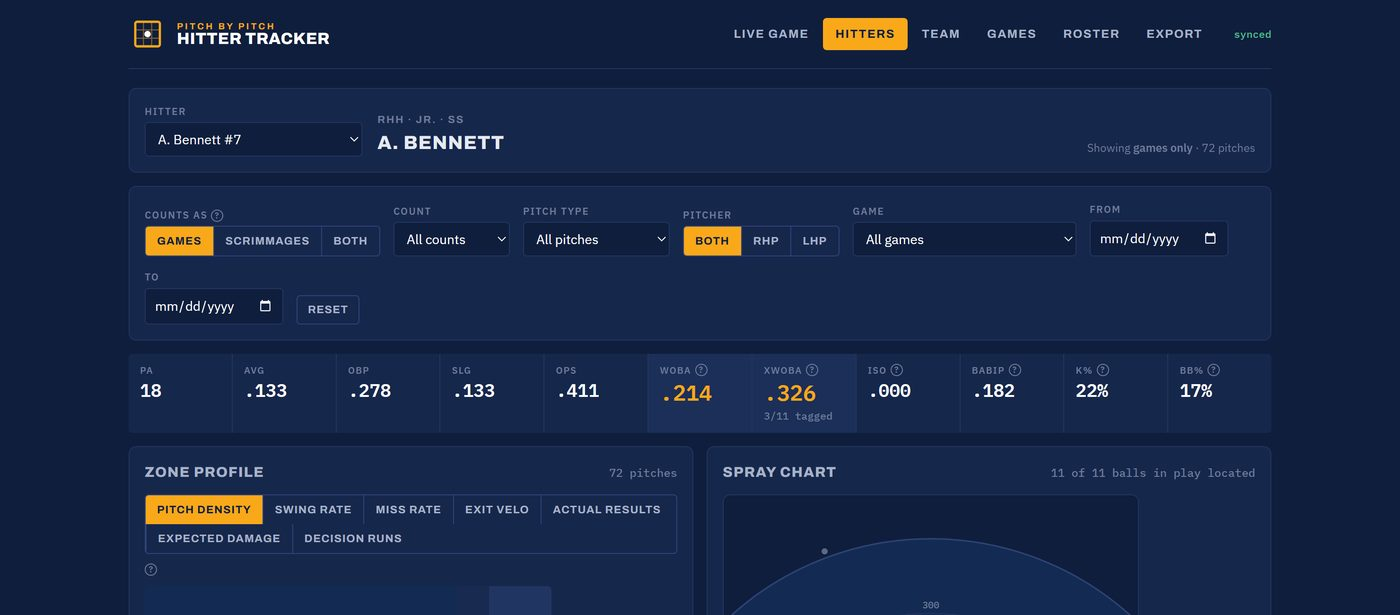
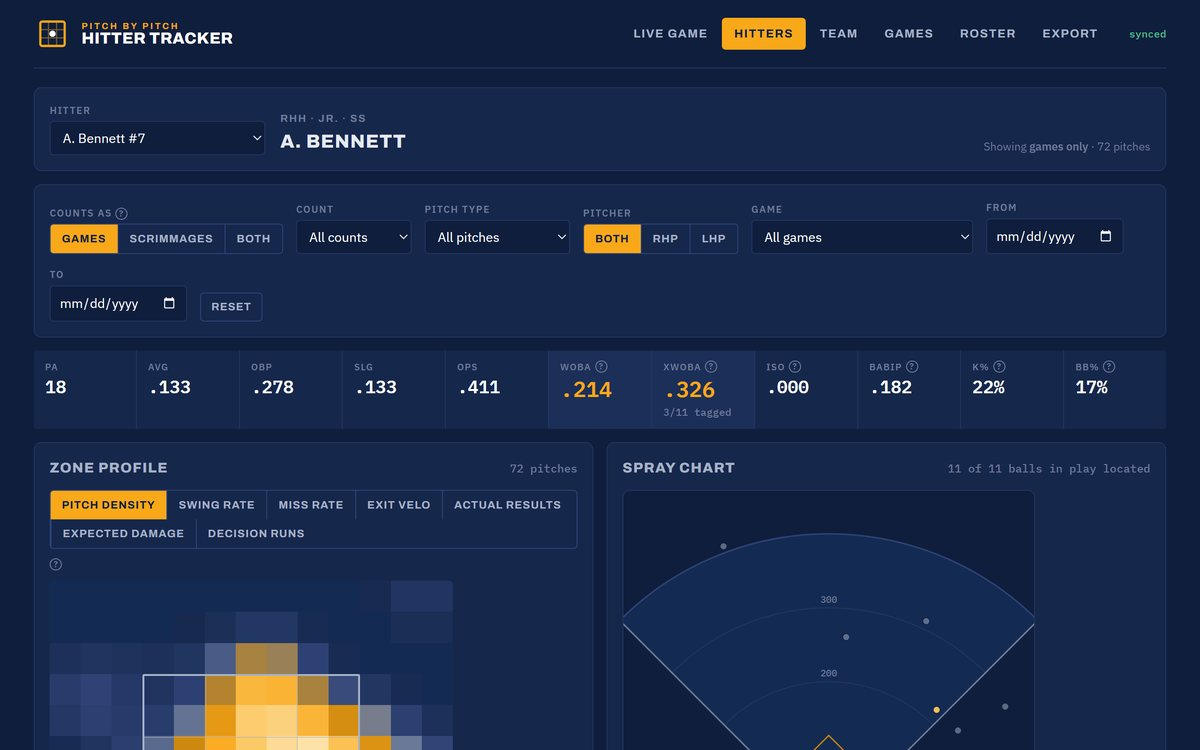
Redesign: uniform project cards with screenshots, rename to Hitting Tracker
Claude-Session: https://claude.ai/code/session_013hvVkYMWoYT2gdnVv2Aj6i

diff --git a/index.html b/index.html
@@ -3,235 +3,170 @@
 <head>
 <meta charset="utf-8">
 <meta name="viewport" content="width=device-width, initial-scale=1">
-<meta name="description" content="Quentin Evers: hitting tools, player development reports and swing-plane research.">
-<title>Quentin Evers Projects</title>
+<title>Quentin Evers - Hitting Tools and Research</title>
+<meta name="description" content="Quentin Evers: software for hitting coaches and hitters. Game-day tracking, bat path education, development reports and swing-plane research.">
+<link rel="preconnect" href="https://fonts.googleapis.com">
 <link rel="preconnect" href="https://fonts.gstatic.com" crossorigin>
 <link rel="stylesheet" href="https://fonts.googleapis.com/css2?family=Big+Shoulders+Display:wght@700;800&family=Public+Sans:wght@400;500;600&family=IBM+Plex+Mono:wght@400;500&display=swap">
 <style>
-/* Layout: a single column, like a lineup card. Three featured tools get image + notes rows; four smaller ones sit in a 2-up grid below. */
+/* Layout: hero (name + portrait), then six projects in a uniform two-column grid. Every card: 16:10 screenshot, label row, title, two sentences, terms, links. */
 :root{
-  --ground:#F1F2EE; --panel:#FFFFFF; --ink:#14212C; --muted:#5A6670;
-  --line:#D3D8D3; --accent:#A9481F; --chip:#E4E7E1;
+  --ground:#F2F3EF; --panel:#FFFFFF; --ink:#14212C; --muted:#5C6872;
+  --line:#D9DDD7; --accent:#A9481F; --chip:#E7EAE4; --live:#2F7A4B;
   --display:"Big Shoulders Display",Impact,"Arial Narrow",sans-serif;
   --body:"Public Sans",-apple-system,"Segoe UI",sans-serif;
   --mono:"IBM Plex Mono",ui-monospace,Consolas,monospace;
 }
 @media (prefers-color-scheme: dark){
-  :root:not([data-theme="light"]){
-    --ground:#0E141A; --panel:#151D25; --ink:#E7EBEC; --muted:#97A3AB;
-    --line:#26323C; --accent:#E2774B; --chip:#1D2731; color-scheme:dark;
+  :root{
+    --ground:#0E141A; --panel:#151D25; --ink:#E7EBEC; --muted:#98A4AC;
+    --line:#26323C; --accent:#E2774B; --chip:#1D2731; --live:#5BBE84; color-scheme:dark;
   }
 }
-:root[data-theme="dark"]{
-  --ground:#0E141A; --panel:#151D25; --ink:#E7EBEC; --muted:#97A3AB;
-  --line:#26323C; --accent:#E2774B; --chip:#1D2731; color-scheme:dark;
-}
 *{box-sizing:border-box}
-body{margin:0;background:var(--ground);color:var(--ink);font-family:var(--body);font-size:16px;line-height:1.55;
-  padding-inline:20px;padding-block:48px 72px}
-.wrap{max-width:1080px;margin:0 auto;display:flex;flex-direction:column;gap:72px}
+html{-webkit-text-size-adjust:100%}
+body{margin:0;background:var(--ground);color:var(--ink);font-family:var(--body);font-size:16px;line-height:1.6;
+  -webkit-font-smoothing:antialiased;padding-inline:24px}
 a{color:inherit}
 a:focus-visible{outline:2px solid var(--accent);outline-offset:3px}
+.wrap{max-width:1120px;margin:0 auto}
 
-header{display:grid;grid-template-columns:minmax(0,1fr) minmax(220px,340px);gap:40px;align-items:end;border-bottom:2px solid var(--ink);padding-bottom:28px}
-.hero-text{display:grid;gap:18px;min-width:0}
-.portrait{margin:0;border:1px solid var(--line);background:var(--panel);aspect-ratio:4/5;max-width:100%;overflow:hidden}
+/* Hero */
+.hero{display:grid;grid-template-columns:minmax(0,1fr) 300px;gap:56px;align-items:end;padding-block:72px 48px;border-bottom:2px solid var(--ink)}
+.hero-text{display:flex;flex-direction:column;gap:22px;min-width:0}
+.kicker{font-family:var(--mono);font-size:12.5px;letter-spacing:.14em;text-transform:uppercase;color:var(--accent);margin:0}
+h1{font-family:var(--display);font-weight:800;text-transform:uppercase;font-size:clamp(64px,11vw,136px);line-height:.84;letter-spacing:.005em;margin:0}
+.lede{margin:0;max-width:34em;font-size:clamp(17px,1.6vw,19px);line-height:1.55}
+.social{display:flex;flex-wrap:wrap;gap:10px;margin-top:4px}
+.social a{font-size:14px;font-weight:600;text-decoration:none;border:1.5px solid var(--ink);padding:8px 16px;border-radius:999px;transition:background .15s,color .15s}
+.social a:hover{background:var(--ink);color:var(--ground)}
+.portrait{margin:0;aspect-ratio:4/5;max-width:100%;overflow:hidden;background:var(--panel)}
 .portrait img{display:block;width:100%;height:100%;object-fit:cover}
-.kicker{font-family:var(--mono);font-size:12px;letter-spacing:.14em;text-transform:uppercase;color:var(--accent)}
-h1{font-family:var(--display);font-weight:800;text-transform:uppercase;font-size:clamp(56px,11vw,128px);
-  line-height:.86;letter-spacing:.005em;margin:0;text-wrap:balance}
-.intro{max-width:60ch;margin:0;font-size:18px;color:var(--muted)}
-.count{display:flex;gap:28px;flex-wrap:wrap;font-family:var(--mono);font-size:13px;color:var(--muted)}
-.social{display:flex;gap:10px 22px;flex-wrap:wrap;font-size:14px;font-weight:600}
-.social a{text-decoration:none;border-bottom:2px solid var(--accent);padding-bottom:1px}
-.social a:hover{color:var(--accent)}
-footer nav{display:flex;gap:18px;flex-wrap:wrap}
-.count b{color:var(--ink);font-weight:500;font-variant-numeric:tabular-nums}
 
-h2.sec{font-family:var(--mono);font-weight:500;font-size:12px;letter-spacing:.14em;text-transform:uppercase;
-  color:var(--muted);margin:0 0 28px;display:flex;align-items:center;gap:14px}
-h2.sec::after{content:"";flex:1;height:1px;background:var(--line)}
-
-.feature{display:grid;grid-template-columns:minmax(0,1.25fr) minmax(0,1fr);gap:40px;align-items:start;
-  padding-block:36px;border-top:1px solid var(--line)}
-.feature:first-of-type{border-top:0;padding-top:0}
-.feature:nth-of-type(even) .shot{order:2}
-.shot{margin:0;border:1px solid var(--line);background:var(--panel);overflow:hidden;border-radius:2px}
-.shot img{display:block;width:100%;height:auto}
-.shot.tall{max-height:520px}
-.shot figcaption{font-family:var(--mono);font-size:11.5px;color:var(--muted);padding:9px 12px;border-top:1px solid var(--line)}
-.body{display:flex;flex-direction:column;gap:16px;min-width:0}
-.tag{font-family:var(--mono);font-size:12px;letter-spacing:.1em;text-transform:uppercase;color:var(--accent)}
-h3{font-family:var(--display);font-weight:700;text-transform:uppercase;font-size:clamp(34px,4.6vw,48px);
-  line-height:.95;margin:0;letter-spacing:.01em;text-wrap:balance}
-.body p{margin:0;max-width:56ch}
-ul.points{margin:0;padding:0;list-style:none;display:grid;gap:8px}
-ul.points li{padding-left:18px;position:relative;font-size:15px}
-ul.points li::before{content:"";position:absolute;left:0;top:.68em;width:8px;height:2px;background:var(--accent)}
-.chips{display:flex;flex-wrap:wrap;gap:6px}
-.chips span{font-family:var(--mono);font-size:12px;background:var(--chip);padding:3px 8px;border-radius:2px}
-.links{display:flex;flex-wrap:wrap;gap:10px 22px;align-items:center;font-size:14px;font-weight:600}
+/* Work */
+.work{padding-block:56px 24px}
+.work-head{display:flex;justify-content:space-between;align-items:baseline;gap:16px;flex-wrap:wrap;margin-bottom:32px}
+h2{font-family:var(--display);font-weight:800;text-transform:uppercase;font-size:clamp(36px,4.5vw,52px);line-height:1;margin:0}
+.work-head p{margin:0;color:var(--muted);font-size:15px}
+.grid{display:grid;grid-template-columns:repeat(2,minmax(0,1fr));gap:48px 40px}
+.project{display:flex;flex-direction:column;gap:16px;min-width:0}
+.shot{display:block;aspect-ratio:16/10;max-width:100%;overflow:hidden;border:1px solid var(--line);background:var(--panel);border-radius:4px}
+.shot img{display:block;width:100%;height:100%;object-fit:cover;object-position:top;transition:transform .35s ease}
+a.shot:hover img{transform:scale(1.025)}
+.meta{display:flex;justify-content:space-between;align-items:center;gap:12px;font-family:var(--mono);font-size:12px;letter-spacing:.08em;text-transform:uppercase;margin-top:4px}
+.meta .cat{color:var(--accent)}
+.status{color:var(--muted);display:inline-flex;align-items:center;gap:7px;white-space:nowrap}
+.status.live::before{content:"";width:7px;height:7px;border-radius:50%;background:var(--live)}
+h3{font-family:var(--display);font-weight:700;text-transform:uppercase;font-size:clamp(30px,3.2vw,38px);line-height:.95;margin:0;letter-spacing:.01em}
+.project p{margin:0;max-width:36em;color:var(--ink)}
+.terms{display:flex;flex-wrap:wrap;gap:6px;list-style:none;margin:0;padding:0}
+.terms li{font-family:var(--mono);font-size:12px;background:var(--chip);padding:3px 9px;border-radius:3px;color:var(--muted)}
+.links{display:flex;gap:22px;font-size:14px;font-weight:600;margin-top:auto;padding-top:4px}
 .links a{text-decoration:none;border-bottom:2px solid var(--accent);padding-bottom:1px}
 .links a:hover{color:var(--accent)}
-.status{font-family:var(--mono);font-size:12px;font-weight:400;color:var(--muted)}
+.links .note{font-weight:400;color:var(--muted);font-size:14px}
 
-.grid{display:grid;grid-template-columns:repeat(2,minmax(0,1fr));gap:20px}
-.card{background:var(--panel);border:1px solid var(--line);padding:26px;display:flex;flex-direction:column;gap:14px;min-width:0}
-.card h3{font-size:32px}
-.card p{margin:0;font-size:15px}
-.card .links{margin-top:auto;padding-top:6px}
-.glyph{height:64px;color:var(--ink)}
-.glyph svg{height:100%;width:auto;display:block}
+footer{margin-top:72px;border-top:2px solid var(--ink);padding-block:20px 48px;display:flex;justify-content:space-between;flex-wrap:wrap;gap:12px;font-family:var(--mono);font-size:12.5px;color:var(--muted)}
+footer nav{display:flex;gap:20px}
+footer a{text-decoration:none}
+footer a:hover{color:var(--accent)}
 
-footer{border-top:2px solid var(--ink);padding-top:18px;font-family:var(--mono);font-size:12px;color:var(--muted);
-  display:flex;justify-content:space-between;flex-wrap:wrap;gap:10px}
-
-@media (max-width:760px){
-  .feature{grid-template-columns:1fr;gap:22px}
-  .feature:nth-of-type(even) .shot{order:0}
-  .grid{grid-template-columns:1fr}
-  header{grid-template-columns:1fr;gap:24px}
-  .portrait{max-width:300px;order:-1}
-  body{padding-inline:16px}
+@media (max-width:860px){
+  .hero{grid-template-columns:1fr;gap:32px;padding-top:40px}
+  .portrait{max-width:280px;order:-1}
+  .grid{grid-template-columns:1fr;gap:56px}
 }
+@media (max-width:480px){ body{padding-inline:16px} }
+@media (prefers-reduced-motion:reduce){ *{transition:none!important} }
 </style>
 </head>
 <body>
-
 <div class="wrap">
-  <header>
+
+  <header class="hero">
     <div class="hero-text">
-    <div class="kicker">Hitting tools, reports and research</div>
-    <h1>Quentin<br>Evers</h1>
-    <p class="intro">Software I have built for hitting coaches and hitters: game-day tracking, teaching tools that turn Statcast bat tracking into something a coach can use, development reports, and research on how swing plane meets pitch plane.</p>
-    <div class="count"><span><b>6</b> projects</span><span><b>4</b> live on the web</span><span><b>2025</b> Statcast season</span></div>
-    <div class="social"><a href="https://www.linkedin.com/in/quentin-evers-943628442/" target="_blank" rel="noopener">LinkedIn</a><a href="https://x.com/QuentinEvers" target="_blank" rel="noopener">X / Twitter</a><a href="https://github.com/qevers23" target="_blank" rel="noopener">GitHub</a></div>
+      <p class="kicker">Hitting tools, reports and research</p>
+      <h1>Quentin<br>Evers</h1>
+      <p class="lede">I build software for hitting coaches and hitters: game-day tracking, teaching tools that make Statcast bat tracking usable for coaches, development reports, and research on how swing plane meets pitch plane.</p>
+      <nav class="social" aria-label="Profiles">
+        <a href="https://www.linkedin.com/in/quentin-evers-943628442/" target="_blank" rel="noopener">LinkedIn</a>
+        <a href="https://x.com/QuentinEvers" target="_blank" rel="noopener">X / Twitter</a>
+        <a href="https://github.com/qevers23" target="_blank" rel="noopener">GitHub</a>
+      </nav>
     </div>
     <figure class="portrait"><img src="portrait.jpg" alt="Quentin Evers on the field in a navy team jacket and batting helmet" width="720" height="900"></figure>
   </header>
 
-  <section>
-    <h2 class="sec">Featured</h2>
+  <main class="work">
+    <div class="work-head">
+      <h2>Projects</h2>
+      <p>Click any screenshot to open the live tool.</p>
+    </div>
 
-    <article class="feature">
-      <figure class="shot">
-        <img src="tracker.jpg" alt="Hitter Tracker hitter page with slash line, wOBA, xwOBA, zone profile heat map and spray chart" width="1400" height="615">
-        <figcaption>Hitter page: filters, slash line, zone profile, spray chart. Sample data.</figcaption>
-      </figure>
-      <div class="body">
-        <div class="tag">Game day / college program</div>
-        <h3>Mount Marty Hitter Tracker</h3>
-        <p>Pitch-by-pitch tracking and swing-decision reports for Mount Marty hitters. A coach charts the game live, and every hitter page, team page and export updates from the same shared data.</p>
-        <ul class="points">
-          <li>Live game charting, hitter, team, games and roster views</li>
-          <li>Zone profile by pitch density, swing rate, miss rate, exit velo, expected damage and decision runs</li>
-          <li>Filter by games or scrimmages, count, pitch type, pitcher hand and date</li>
-          <li>One link for the whole staff, with a free-tier hosted database behind it</li>
-        </ul>
-        <div class="chips"><span>wOBA</span><span>xwOBA</span><span>BABIP</span><span>K% / BB%</span><span>spray chart</span></div>
-        <div class="links"><a href="https://qevers23.github.io/hitter-tracker/" target="_blank" rel="noopener">Open the tracker</a><a href="https://github.com/qevers23/hitter-tracker" target="_blank" rel="noopener">GitHub</a></div>
-      </div>
-    </article>
-
-    <article class="feature">
-      <figure class="shot">
-        <img src="batpath.jpg" alt="Bat Path Explainer section showing a 3D bat path at contact with attack angle and swing tilt sliders" width="1192" height="1130">
-        <figcaption>Steep vs. flat: attack angle and swing tilt with MLB ranges.</figcaption>
-      </figure>
-      <div class="body">
-        <div class="tag">Teaching / coach education</div>
-        <h3>Bat Path Explainer</h3>
-        <p>An interactive 3D explainer for coaches on attack angle, swing tilt, attack direction, bat speed and getting on plane. Each concept pairs a swing you can orbit and scrub with where MLB hitters actually live.</p>
-        <ul class="points">
-          <li>Five camera views (3/4, side, catcher, top, low) and a play-through to contact</li>
-          <li>Sliders for attack angle, swing tilt, swing length and pitch height</li>
-          <li>MLB 10th, median and 90th percentile for every metric, from 2025 pitch-level Statcast bat tracking</li>
-          <li>"Where coaches get this wrong" notes tied to common cues</li>
-        </ul>
-        <div class="chips"><span>attack angle</span><span>swing tilt</span><span>attack direction</span><span>intercept point</span></div>
-        <div class="links"><a href="https://qevers23.github.io/Bat-Path-Explainer/" target="_blank" rel="noopener">Open the explainer</a><a href="https://github.com/qevers23/Bat-Path-Explainer" target="_blank" rel="noopener">GitHub</a></div>
-      </div>
-    </article>
-
-    <article class="feature">
-      <figure class="shot tall">
-        <img src="devreport.jpg" alt="Hitter Dev Report showing file loader, athlete header and swing profile metrics table" width="1400" height="1400">
-        <figcaption>File loader, athlete header and swing profile. Mock athlete.</figcaption>
-      </figure>
-      <div class="body">
-        <div class="tag">Player development / reports</div>
-        <h3>Hitter Dev Report</h3>
-        <p>One page that turns a hitter's Blast and HitTrax exports into a full development report and prints as a PDF you can hand the athlete. It replaces a three-tool workflow: swing profile in one, batted ball in another, comparison numbers in a third.</p>
-        <ul class="points">
-          <li>Drag in Blast per-swing CSV, HitTrax CSV and Driveline Snapshot or Swing Profile PDFs, in any order</li>
-          <li>Swing profile, batted ball and point-of-contact sections compared against a chosen playing level</li>
-          <li>Drop in a program logo and the report takes on its colors</li>
-          <li>Runs from a single HTML file with nothing to install</li>
-        </ul>
-        <div class="chips"><span>bat speed</span><span>rotational accel.</span><span>on-plane eff.</span><span>exit velo</span><span>contact depth</span></div>
-        <div class="links"><span class="status">Single-file tool, shared directly</span></div>
-      </div>
-    </article>
-  </section>
-
-  <section>
-    <h2 class="sec">Research</h2>
-    <article class="feature" style="padding-top:0;border-top:0">
-      <figure class="shot" aria-hidden="true" style="padding:28px">
-        <svg viewBox="0 0 520 300" width="100%" role="img" aria-label="Diagram of a pitch descending at a VAA and a bat path rising at an attack angle">
-          <line x1="20" y1="250" x2="500" y2="250" stroke="var(--line)" stroke-width="2"/>
-          <path d="M40 60 Q 240 120 420 196" fill="none" stroke="var(--muted)" stroke-width="3" stroke-dasharray="7 6"/>
-          <circle cx="420" cy="196" r="9" fill="var(--panel)" stroke="var(--ink)" stroke-width="2.5"/>
-          <line x1="230" y1="236" x2="470" y2="176" stroke="var(--accent)" stroke-width="7" stroke-linecap="round"/>
-          <text x="40" y="44" fill="var(--muted)" font-family="IBM Plex Mono, monospace" font-size="15">pitch: VAA -5.0&#176;</text>
-          <text x="230" y="278" fill="var(--accent)" font-family="IBM Plex Mono, monospace" font-size="15">bat: attack angle +14&#176;</text>
-          <text x="20" y="300" fill="var(--muted)" font-family="IBM Plex Mono, monospace" font-size="13">illustration, not to scale</text>
-        </svg>
-      </figure>
-      <div class="body">
-        <div class="tag">Research / MLB 2025</div>
-        <h3>VAA Matcher</h3>
-        <p>Every 2025 MLB hitter's attack angle against the vertical approach angle of the pitches he faces. Plane mismatch is a mechanical explanation for why some hitters struggle with some pitch types.</p>
-        <ul class="points">
-          <li>Five views: 3D success ridge, VAA x attack angle scatter, violins by pitch type, gap-to-outcome curves and a zone map</li>
-          <li><b>Plane Match Score</b>, a 0-100 score for how closely a hitter's attack angle tracks the league's xwOBA-optimal angle for each pitch's VAA and height</li>
-          <li>Each hitter compared against hitters in the same bat-speed group</li>
-        </ul>
-        <div class="chips"><span>VAA</span><span>HAA</span><span>attack angle</span><span>xwOBA</span><span>barrel%</span><span>whiff%</span></div>
-        <div class="links"><span class="status">Portable HTML build, not hosted yet</span></div>
-      </div>
-    </article>
-  </section>
-
-  <section>
-    <h2 class="sec">Practice planning</h2>
     <div class="grid">
-      <article class="card">
-        <div class="glyph" aria-hidden="true">
-          <svg viewBox="0 0 140 64"><g fill="none" stroke="currentColor" stroke-width="2">
-            <rect x="1" y="1" width="138" height="62"/><line x1="1" y1="17" x2="139" y2="17"/><line x1="1" y1="32" x2="139" y2="32"/><line x1="1" y1="47" x2="139" y2="47"/><line x1="44" y1="1" x2="44" y2="63"/></g>
-            <rect x="46" y="19" width="56" height="11" fill="var(--accent)"/></svg>
-        </div>
-        <div class="tag">Pre-game</div>
+
+      <article class="project">
+        <a class="shot" href="https://qevers23.github.io/hitter-tracker/" target="_blank" rel="noopener"><img src="tracker.jpg" alt="Hitting Tracker hitter page with slash line, wOBA, xwOBA, zone profile and spray chart" width="1200" height="750" loading="lazy"></a>
+        <div class="meta"><span class="cat">Game day</span><span class="status live">Live</span></div>
+        <h3>Hitting Tracker</h3>
+        <p>Pitch-by-pitch tracking and swing-decision reports, built for the Mount Marty staff. A coach charts the game live and every hitter page, team page and export updates from the same shared data.</p>
+        <ul class="terms"><li>zone profile</li><li>decision runs</li><li>xwOBA</li><li>spray chart</li></ul>
+        <div class="links"><a href="https://qevers23.github.io/hitter-tracker/" target="_blank" rel="noopener">Open</a><a href="https://github.com/qevers23/hitter-tracker" target="_blank" rel="noopener">GitHub</a></div>
+      </article>
+
+      <article class="project">
+        <a class="shot" href="https://qevers23.github.io/Bat-Path-Explainer/" target="_blank" rel="noopener"><img src="batpath.jpg" alt="Bat Path Explainer introduction with a tracked swing shown in three dimensions" width="1200" height="750" loading="lazy"></a>
+        <div class="meta"><span class="cat">Coach education</span><span class="status live">Live</span></div>
+        <h3>Bat Path Explainer</h3>
+        <p>An interactive walkthrough of the bat path for coaches: up or down, side to side, swinging fast and adjustability. Built on 330,422 tracked swings from the 2025 MLB regular season, with each swing rebuilt in 3D.</p>
+        <ul class="terms"><li>attack angle</li><li>swing tilt</li><li>attack direction</li><li>bat speed</li></ul>
+        <div class="links"><a href="https://qevers23.github.io/Bat-Path-Explainer/" target="_blank" rel="noopener">Open</a><a href="https://github.com/qevers23/Bat-Path-Explainer" target="_blank" rel="noopener">GitHub</a></div>
+      </article>
+
+      <article class="project">
+        <div class="shot"><img src="devreport.jpg" alt="Hitter Dev Report swing profile comparing an example athlete to college averages" width="1200" height="750" loading="lazy"></div>
+        <div class="meta"><span class="cat">Player development</span><span class="status">Single-file tool</span></div>
+        <h3>Hitter Dev Report</h3>
+        <p>Turns a hitter's Blast and HitTrax exports into one development report, compared against a chosen playing level, that prints as a PDF for the athlete. Drop in a program logo and the report takes on its colors.</p>
+        <ul class="terms"><li>Blast</li><li>HitTrax</li><li>on-plane efficiency</li><li>contact depth</li></ul>
+        <div class="links"><span class="note">Example athlete shown</span></div>
+      </article>
+
+      <article class="project">
+        <div class="shot"><img src="vaa.jpg" alt="VAA Matcher 3D view of attack angle against pitch VAA with a success ridge and per-pitch table" width="1200" height="750" loading="lazy"></div>
+        <div class="meta"><span class="cat">Research</span><span class="status">Not hosted yet</span></div>
+        <h3>VAA Matcher</h3>
+        <p>Every 2025 MLB hitter's attack angle against the vertical approach angle of the pitches he sees. Plane mismatch explains why some hitters struggle with some pitch types, and the Plane Match Score rates it 0 to 100.</p>
+        <ul class="terms"><li>VAA</li><li>attack angle</li><li>plane match score</li><li>xwOBA</li></ul>
+        <div class="links"><span class="note">Interactive build available on request</span></div>
+      </article>
+
+      <article class="project">
+        <a class="shot" href="https://qevers23.github.io/bp-builder/" target="_blank" rel="noopener"><img src="bp.jpg" alt="BP Builder pre-game batting practice template with groups and cage rounds" width="1200" height="750" loading="lazy"></a>
+        <div class="meta"><span class="cat">Practice planning</span><span class="status live">Live</span></div>
         <h3>BP Builder</h3>
-        <p>A blank pre-game batting practice template that a coaching staff fills in for their own groups, rounds and timing.</p>
+        <p>A blank pre-game batting practice template a staff fills in: groups, rotation timing, cage rounds and on-field rounds. Plans save in the browser and print or export to PDF.</p>
+        <ul class="terms"><li>groups</li><li>cage rounds</li><li>rotation timing</li></ul>
         <div class="links"><a href="https://qevers23.github.io/bp-builder/" target="_blank" rel="noopener">Open</a><a href="https://github.com/qevers23/bp-builder" target="_blank" rel="noopener">GitHub</a></div>
       </article>
-      <article class="card">
-        <div class="glyph" aria-hidden="true">
-          <svg viewBox="0 0 140 64"><g fill="none" stroke="currentColor" stroke-width="2">
-            <rect x="1" y="1" width="138" height="62"/><line x1="20.7" y1="1" x2="20.7" y2="63"/><line x1="40.4" y1="1" x2="40.4" y2="63"/><line x1="60.1" y1="1" x2="60.1" y2="63"/><line x1="79.9" y1="1" x2="79.9" y2="63"/><line x1="99.6" y1="1" x2="99.6" y2="63"/><line x1="119.3" y1="1" x2="119.3" y2="63"/><line x1="1" y1="14" x2="139" y2="14"/></g>
-            <rect x="42.4" y="16" width="16" height="22" fill="var(--accent)"/><rect x="81.9" y="16" width="16" height="34" fill="var(--accent)"/></svg>
-        </div>
-        <div class="tag">Weekly plan</div>
+
+      <article class="project">
+        <a class="shot" href="https://qevers23.github.io/weekly-hitting-builder/" target="_blank" rel="noopener"><img src="weekly.jpg" alt="Weekly Hitting Builder template with cage and on-field plans for each day" width="1200" height="750" loading="lazy"></a>
+        <div class="meta"><span class="cat">Practice planning</span><span class="status live">Live</span></div>
         <h3>Weekly Hitting Builder</h3>
-        <p>A blank weekly hitting calendar that a staff fills in themselves, for laying out the week's work around games.</p>
+        <p>A blank weekly hitting calendar. Each day gets a focus and a plan for every cage and the field, with machines, pitch shapes, drills and swing counts.</p>
+        <ul class="terms"><li>weekly plan</li><li>cage work</li><li>drills and swings</li></ul>
         <div class="links"><a href="https://qevers23.github.io/weekly-hitting-builder/" target="_blank" rel="noopener">Open</a><a href="https://github.com/qevers23/weekly-hitting-builder" target="_blank" rel="noopener">GitHub</a></div>
       </article>
-    </div>
-  </section>
 
-  <footer><span>Quentin Evers</span><nav><a href="https://www.linkedin.com/in/quentin-evers-943628442/" target="_blank" rel="noopener">LinkedIn</a><a href="https://x.com/QuentinEvers" target="_blank" rel="noopener">X / Twitter</a><a href="https://github.com/qevers23" target="_blank" rel="noopener">GitHub</a></nav></footer>
+    </div>
+  </main>
+
+  <footer>
+    <span>Quentin Evers</span>
+    <nav aria-label="Profiles"><a href="https://www.linkedin.com/in/quentin-evers-943628442/" target="_blank" rel="noopener">LinkedIn</a><a href="https://x.com/QuentinEvers" target="_blank" rel="noopener">X / Twitter</a><a href="https://github.com/qevers23" target="_blank" rel="noopener">GitHub</a></nav>
+  </footer>
+
 </div>
 </body>
 </html>
